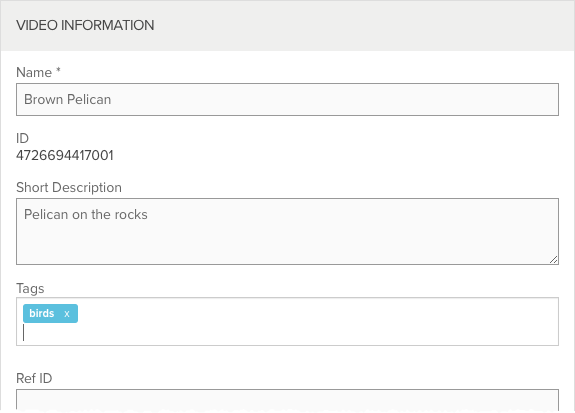
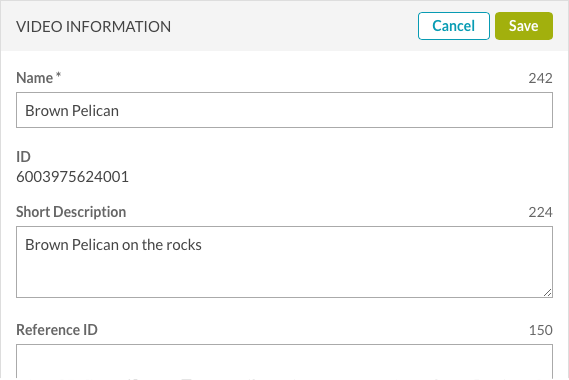
updates for categorization panel

diff --git a/_site/get-started/step-step-video-cloud-studio-publishing-workflow.html b/_site/get-started/step-step-video-cloud-studio-publishing-workflow.html
@@ -952,13 +952,13 @@ function doGTranslate(lang_pair) {if(lang_pair.value)lang_pair=lang_pair.value;i
     <p>In this task you will edit video properties.</p>
     <ol class="bcls-tasklist-restart">
       <li>In Video Cloud Studio, click <strong>Media</strong> to open the Media module.</li>
-      <li>Click on the title for the <strong>Brown Pelican</strong> video, locate the <strong>Video Information</strong> section and then click <strong>Edit</strong>. Set the following properties:
-        <ul>
-          <li><strong>Short Description:</strong> <code translate="No">Pelican on the rocks</code></li>
-          <li><strong>Tags:</strong> <code translate="No">birds</code></li>
-        </ul>
+      <li>Click on the title for the <strong>Brown Pelican</strong> video, locate the <strong>Video Information</strong> section and then click <strong>Edit</strong>. Set the <strong>Short Description</strong> to <code translate="No">Pelican on the rocks</code>.
         <figure class="bcls-figure"><img class="bcls-image--no-border" alt="" src="/assets/images/get-started/node18825-pelican-properties.png" /></figure>
-        <p>Click <strong>Save</strong> when done and then click <strong>Back to Videos</strong> to return to the list of videos.</p>
+      </li>
+      <li>Click <strong>Save</strong>.</li>
+      <li>In the <strong>Categorization</strong> section, add a <strong>Tag</strong> of <code translate="No">birds</code>.
+      <figure class="bcls-figure"><img class="bcls-image--no-border" alt="" src="/assets/images/get-started/node18825-pelican-tags.png" /></figure>
+      <p>Click <strong>Back to Videos</strong> to return to the list of videos.</p>
       </li>
       <li>Click on the title for the <strong>http://learning-services-media.brightcove.com/vc-quick-start/oystercatcher.mp4</strong> video, locate the <strong>Video Information</strong> section and then click <strong>Edit</strong>. Set the following properties:
         <ul>

diff --git a/get-started/step-step-video-cloud-studio-publishing-workflow.html b/get-started/step-step-video-cloud-studio-publishing-workflow.html
@@ -76,13 +76,13 @@ parent: Getting Started
     <p>In this task you will edit video properties.</p>
     <ol class="bcls-tasklist-restart">
       <li>In Video Cloud Studio, click <strong>Media</strong> to open the Media module.</li>
-      <li>Click on the title for the <strong>Brown Pelican</strong> video, locate the <strong>Video Information</strong> section and then click <strong>Edit</strong>. Set the following properties:
-        <ul>
-          <li><strong>Short Description:</strong> <code translate="No">Pelican on the rocks</code></li>
-          <li><strong>Tags:</strong> <code translate="No">birds</code></li>
-        </ul>
+      <li>Click on the title for the <strong>Brown Pelican</strong> video, locate the <strong>Video Information</strong> section and then click <strong>Edit</strong>. Set the <strong>Short Description</strong> to <code translate="No">Pelican on the rocks</code>.
         <figure class="bcls-figure"><img class="bcls-image--no-border" alt="" src="/assets/images/get-started/node18825-pelican-properties.png" /></figure>
-        <p>Click <strong>Save</strong> when done and then click <strong>Back to Videos</strong> to return to the list of videos.</p>
+      </li>
+      <li>Click <strong>Save</strong>.</li>
+      <li>In the <strong>Categorization</strong> section, add a <strong>Tag</strong> of <code translate="No">birds</code>.
+      <figure class="bcls-figure"><img class="bcls-image--no-border" alt="" src="/assets/images/get-started/node18825-pelican-tags.png" /></figure>
+      <p>Click <strong>Back to Videos</strong> to return to the list of videos.</p>
       </li>
       <li>Click on the title for the <strong>http://learning-services-media.brightcove.com/vc-quick-start/oystercatcher.mp4</strong> video, locate the <strong>Video Information</strong> section and then click <strong>Edit</strong>. Set the following properties:
         <ul>
